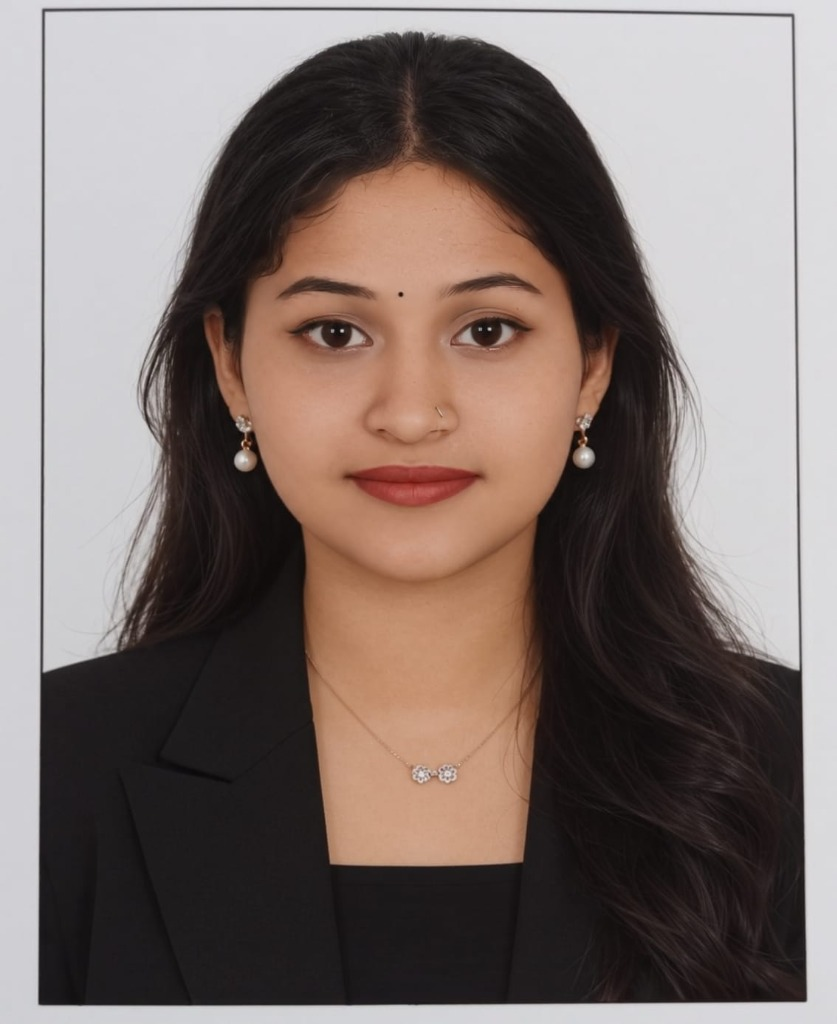
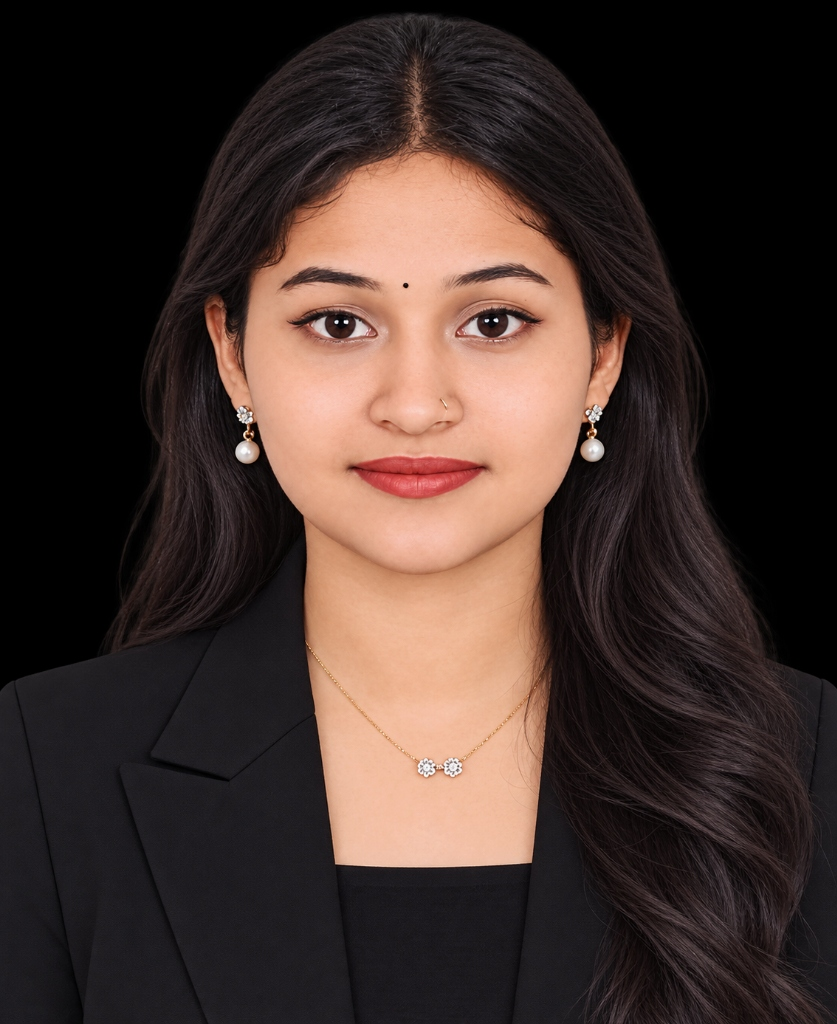
Update profile to black background photo and remove face animation overlays

diff --git a/src/sections/Hero.jsx b/src/sections/Hero.jsx
@@ -52,103 +52,6 @@ const aiStyles = `
   .data-row-3    { animation: dataStream 3.2s ease-in-out infinite 2.1s; }
 `;
 
-/* ─── Neural Brain Overlay Canvas ─── */
-function NeuralOverlay() {
-  const canvasRef = useRef(null);
-  useEffect(() => {
-    const canvas = canvasRef.current;
-    if (!canvas) return;
-    const ctx = canvas.getContext('2d');
-    let animId;
-    const W = canvas.width  = canvas.offsetWidth;
-    const H = canvas.height = canvas.offsetHeight;
-
-    /* Generate brain-shaped point cloud */
-    const nodes = Array.from({ length: 90 }, () => {
-      const u = Math.random() * Math.PI * 2;
-      const v = Math.random() * Math.PI - Math.PI / 2;
-      const hemi = Math.random() > 0.5 ? 1 : -1;
-      return {
-        ox: (100 * Math.cos(v) * (0.8 + 0.2 * Math.cos(u))) + hemi * 10,
-        oy: 75  * Math.sin(v) * (0.85 + 0.15 * Math.sin(u)),
-        oz: 85  * Math.cos(v) * Math.sin(u),
-        color: Math.random() > 0.4 ? '#38bdf8' : '#818cf8',
-        r: Math.random() * 1.8 + 0.8,
-        pulse: Math.random() * Math.PI * 2,
-      };
-    });
-
-    let angle = 0;
-    const draw = (t) => {
-      ctx.clearRect(0, 0, W, H);
-      angle += 0.006;
-      const cosA = Math.cos(angle), sinA = Math.sin(angle);
-      const cosB = Math.cos(0.18),  sinB = Math.sin(0.18);
-      const fov = 320, cx = W / 2, cy = H / 2 - 20;
-
-      const pts = nodes.map(n => {
-        // Rotate Y
-        const x1 = n.ox * cosA - n.oz * sinA;
-        const z1 = n.oz * cosA + n.ox * sinA;
-        // Rotate X
-        const y1 = n.oy * cosB - z1 * sinB;
-        const z2 = z1 * cosB + n.oy * sinB;
-        const s  = fov / (fov + z2 + 160);
-        const pulse = Math.sin(t * 0.0025 + n.pulse) * 0.5 + 0.5;
-        return { x: x1 * s + cx, y: y1 * s + cy, z: z2, s, r: n.r * s, color: n.color, pulse };
-      }).sort((a, b) => b.z - a.z);
-
-      // Synaptic lines
-      for (let i = 0; i < pts.length; i++) {
-        for (let j = i + 1; j < pts.length; j++) {
-          const dx = pts[i].x - pts[j].x, dy = pts[i].y - pts[j].y;
-          const d  = Math.sqrt(dx*dx + dy*dy);
-          if (d < 50 * pts[i].s) {
-            ctx.beginPath();
-            ctx.moveTo(pts[i].x, pts[i].y);
-            ctx.lineTo(pts[j].x, pts[j].y);
-            ctx.strokeStyle = '#38bdf8';
-            ctx.lineWidth   = 0.7;
-            ctx.globalAlpha = (1 - d / (50 * pts[i].s)) * 0.22 * pts[i].s;
-            ctx.stroke();
-          }
-        }
-      }
-
-      // Nodes
-      pts.forEach(p => {
-        ctx.beginPath();
-        ctx.arc(p.x, p.y, p.r * (0.8 + 0.4 * p.pulse), 0, Math.PI * 2);
-        ctx.fillStyle    = p.color;
-        ctx.globalAlpha  = Math.max(0.15, (p.z + 160) / 320) * (0.55 + 0.45 * p.pulse);
-        ctx.shadowBlur   = 10 * p.s;
-        ctx.shadowColor  = p.color;
-        ctx.fill();
-      });
-
-      ctx.globalAlpha = 1;
-      ctx.shadowBlur  = 0;
-      animId = requestAnimationFrame(draw);
-    };
-
-    animId = requestAnimationFrame(draw);
-    return () => cancelAnimationFrame(animId);
-  }, []);
-
-  return (
-    <canvas
-      ref={canvasRef}
-      style={{
-        position: 'absolute', inset: 0, zIndex: 3,
-        width: '100%', height: '100%',
-        pointerEvents: 'none',
-        opacity: 0.72,
-        mixBlendMode: 'screen',   /* brain glows blend over photo without darkening */
-      }}
-    />
-  );
-}
-
 export default function Hero() {
   // Rotating / Typing role state
   const [roleIndex, setRoleIndex] = useState(0);
@@ -395,39 +298,15 @@ FEATURED PROJECTS
                   backgroundSize: '28px 28px',
                 }} />
 
-                {/* Profile image — white background removed, transparent PNG on dark card */}
+                {/* Profile image with clean dark background */}
                 <img
-                  src="/profile.png"
+                  src="/profile.jpg"
                   alt="Sreya Devi"
                   style={{
                     position: 'relative', zIndex: 1,
                     width: '100%', height: '100%',
                     objectFit: 'cover', objectPosition: 'center top',
-                    filter: 'brightness(1.03) contrast(1.02) saturate(1.05)',
-                  }}
-                />
-
-                {/* ░░ NEURAL BRAIN OVERLAY — live canvas over photo ░░ */}
-                <NeuralOverlay />
-
-                {/* AI scan line sweep */}
-                <div
-                  className="ai-scanline"
-                  style={{
-                    position: 'absolute', left: 0, right: 0, height: '3px',
-                    background: 'linear-gradient(90deg, transparent 0%, rgba(56,189,248,0.0) 10%, rgba(56,189,248,0.7) 50%, rgba(99,102,241,0.7) 80%, transparent 100%)',
-                    filter: 'blur(1px)',
-                    pointerEvents: 'none',
-                  }}
-                />
-
-                {/* Glitch bar */}
-                <div
-                  className="ai-glitch"
-                  style={{
-                    position: 'absolute', top: '35%', left: 0, right: 0, height: 2,
-                    background: 'rgba(56,189,248,0.5)',
-                    pointerEvents: 'none',
+                    borderRadius: 28,
                   }}
                 />
 
